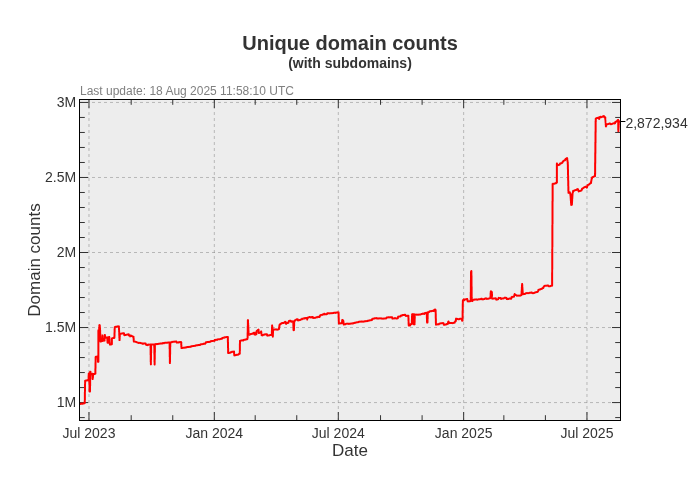
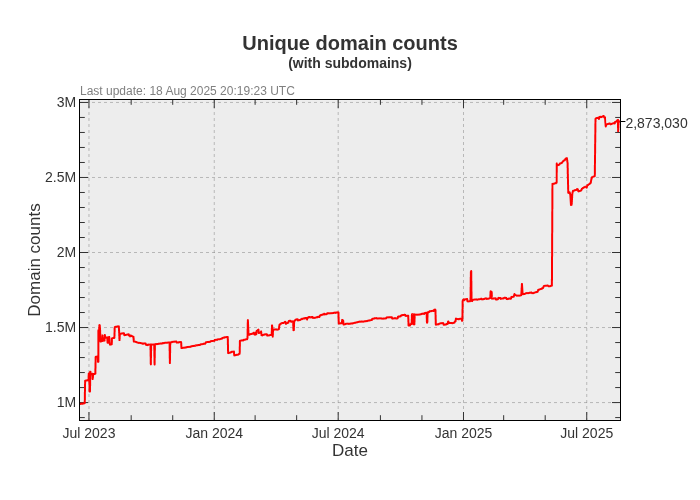
Update pages

diff --git a/README.md b/README.md
@@ -3,22 +3,22 @@ A blocklist file for blocking ads, trackers and malware domains.
 
[1 lines of base64/hex data omitted]
 
-- Unique domains: 2,872,934
-- Without subdomains: 2,179,170
-- Last update: 18 Aug 2025 11:58:10 UTC
-- Version: 2025.08.18.01
+- Unique domains: 2,873,030
+- Without subdomains: 2,179,273
+- Last update: 18 Aug 2025 20:19:23 UTC
+- Version: 2025.08.18.02
 
 
 ### Downloads:
 
 | Format             | Domain count      | Download Link |
 |:------------------ | -----------------:|:-------------:|
-| *Adblock Plus*     | 2,179,170 | [Download](https://dl.cenk.app/bad-hosts/bad-hosts-abp) |
-| *Wildcard domains* | 2,179,170 | [Download](https://dl.cenk.app/bad-hosts/bad-hosts-wildcard) |
-| *dnsmasq*          | 2,179,170 | [Download](https://dl.cenk.app/bad-hosts/bad-hosts-dnsmasq) |
-| *hosts*            | 2,872,934 | [Download](https://dl.cenk.app/bad-hosts/hosts) |
-| *hosts (ipv6)*     | 2,872,934 | [Download](https://dl.cenk.app/bad-hosts/hosts-ipv6) |
-| *Plain domains*    | 2,872,934 | [Download](https://dl.cenk.app/bad-hosts/bad-hosts-domains) |
+| *Adblock Plus*     | 2,179,273 | [Download](https://dl.cenk.app/bad-hosts/bad-hosts-abp) |
+| *Wildcard domains* | 2,179,273 | [Download](https://dl.cenk.app/bad-hosts/bad-hosts-wildcard) |
+| *dnsmasq*          | 2,179,273 | [Download](https://dl.cenk.app/bad-hosts/bad-hosts-dnsmasq) |
+| *hosts*            | 2,873,030 | [Download](https://dl.cenk.app/bad-hosts/hosts) |
+| *hosts (ipv6)*     | 2,873,030 | [Download](https://dl.cenk.app/bad-hosts/hosts-ipv6) |
+| *Plain domains*    | 2,873,030 | [Download](https://dl.cenk.app/bad-hosts/bad-hosts-domains) |
 
 ### Domain count history
 #### With subdomains
